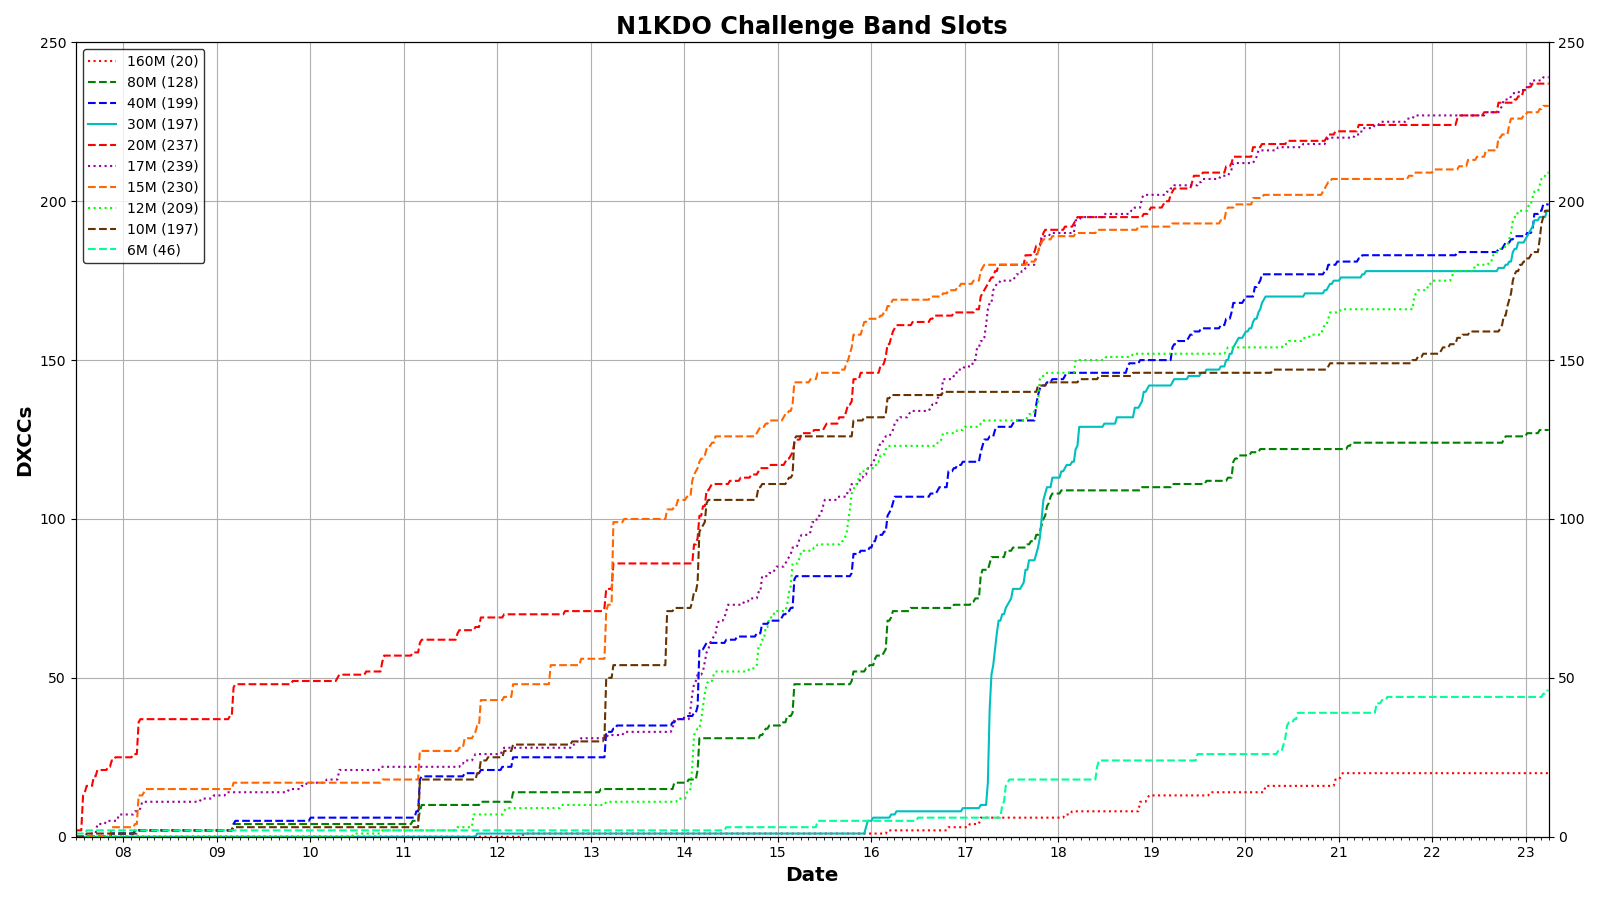
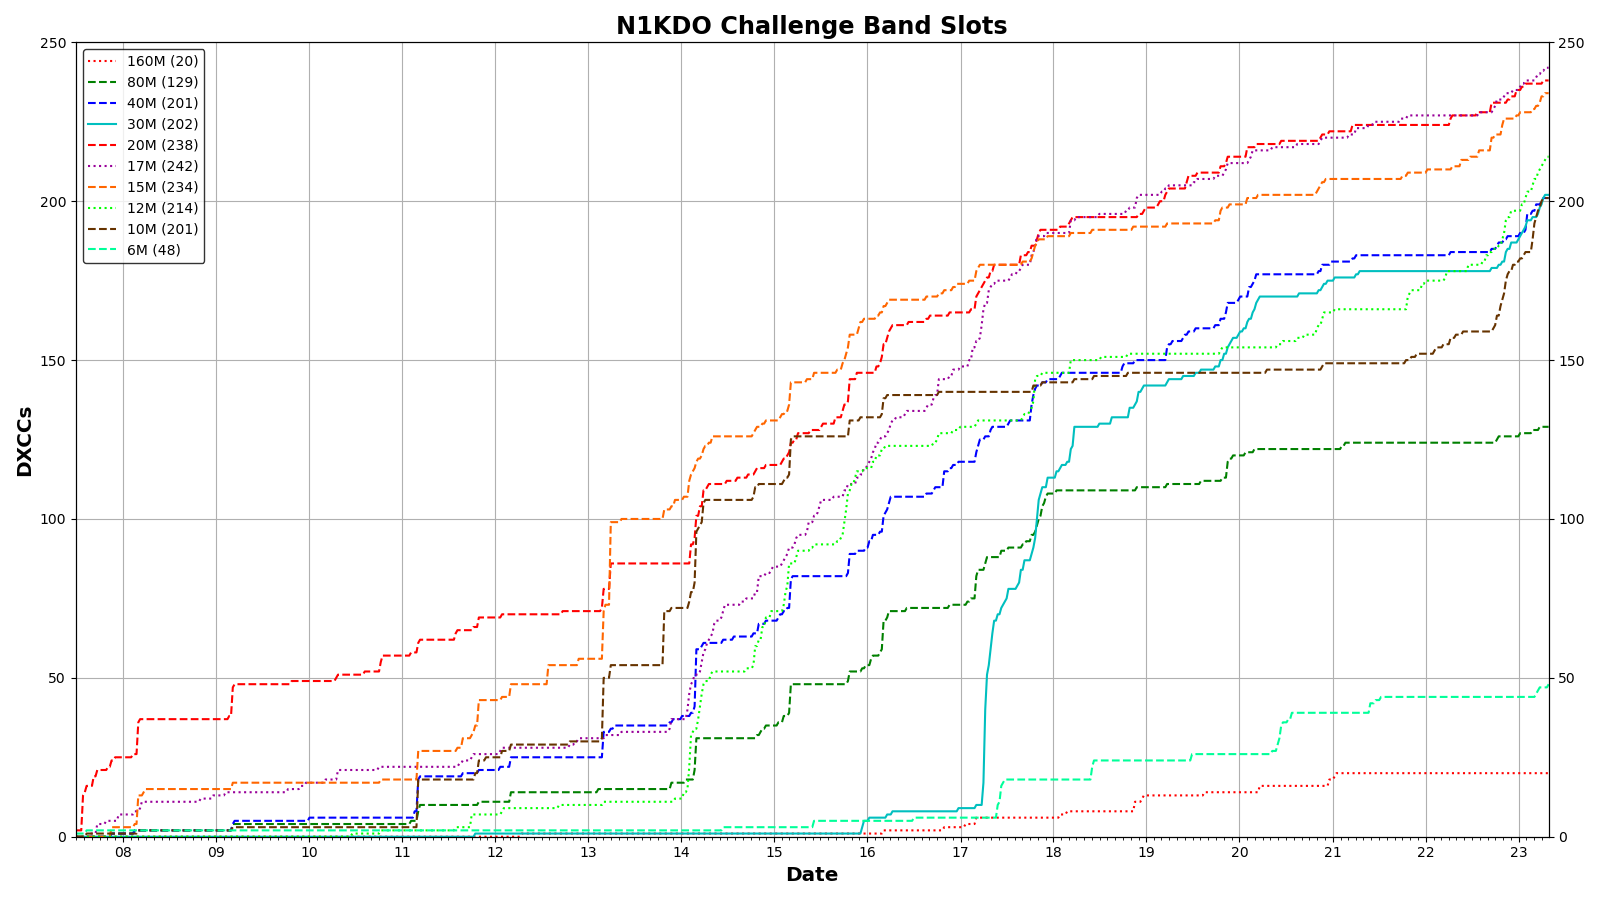
fix up charts a bit

diff --git a/qso_charts.py b/qso_charts.py
@@ -205,22 +205,26 @@ def plot_dxcc_qsos(bin_data, title, filename=None, start_date=None, end_date=Non
 
     yticks = [0, 50, 100, 150, 200, 250, 300, 350]
     ax.set_yticks(yticks)
-    minor_ticks = [340, total_dxcc_data[-1]]
-    ax.set_yticks(minor_ticks, minor=True)  # current number of dxcc entities
-    ax.yaxis.set_minor_formatter(FormatStrFormatter('%d'))
+    if False:
+        minor_ticks = [340, total_dxcc_data[-1]]
+        ax.set_yticks(minor_ticks, minor=True)  # current number of dxcc entities
+        ax.tick_params(axis='y', which='minor', direction='in', right=False, labelcolor='r', pad=-24)
+        ax.yaxis.set_minor_formatter(FormatStrFormatter('%d'))
 
-    ax.tick_params(axis='y', colors=FG, which='both', direction='out', right=False, labelcolor='r')
+    ax.tick_params(axis='y', colors=FG, which='major', direction='out', right=False, labelcolor='r')
     ax.tick_params(axis='x', colors=FG, which='both', direction='out', top=False)
     ax.set_ylabel('DXCCs', color='r', size='x-large', weight='bold')
     axb.set_ylabel('Challenge', color='g', size='x-large', weight='bold')
     challenge_ticks = [500, 1000, 1500, 2000, 2500, 3000, 3500]
+    axb.tick_params(axis='y', colors=FG, which='major', direction='out', left=False, labelcolor='g')
     axb.set_yticks(challenge_ticks)
-    current_challenge_label_distance = total_challenge_data[-1] % 500
-    #print(current_challenge_label_distance)
-    if current_challenge_label_distance > 20 and current_challenge_label_distance < 480:
-        axb.set_yticks([total_challenge_data[-1]], minor=True)
-        axb.yaxis.set_minor_formatter(FormatStrFormatter('%d'))
-    axb.tick_params(axis='y', colors=FG, which='both', direction='out', left=False, labelcolor='g')
+    if False:
+        current_challenge_label_distance = total_challenge_data[-1] % 500
+        #print(current_challenge_label_distance)
+        if current_challenge_label_distance > 20 and current_challenge_label_distance < 480:
+            axb.set_yticks([total_challenge_data[-1]], minor=True)
+            axb.yaxis.set_minor_formatter(FormatStrFormatter('%d'))
+    axb.tick_params(axis='y', colors=FG, which='minor', direction='out', left=False, labelcolor='g', pad=-72)
 
     if bin_data.num_days <= 28:
         ax.xaxis.set_major_locator(DayLocator())
@@ -236,7 +240,8 @@ def plot_dxcc_qsos(bin_data, title, filename=None, start_date=None, end_date=Non
     lns = lns1 + lns2
     labs = [l.get_label() for l in lns]
 
-    legend = ax.legend(lns, labs, loc='upper left', numpoints=1, facecolor=BG, edgecolor=FG)
+    # legend = ax.legend(lns, labs, loc='upper left', numpoints=1, facecolor=BG, edgecolor=FG)
+    legend = ax.legend(lns, labs, loc='lower right', numpoints=1, facecolor=BG, edgecolor=FG)
     for text in legend.get_texts():
         text.set_color(FG)
 

diff --git a/get_lotw_adif.py b/get_lotw_adif.py
@@ -133,7 +133,7 @@ def main():
                 print('Cannot update, no base, download first.')
             else:
                 password = get_password(password)
-                logging.info('fetching new QSOs')
+                logging.info(f'fetching new QSOs since {last_qso_date}')
                 new_lotw_qsos_header = None
                 try:
                     new_lotw_qsos_header, new_lotw_qsos = adif.get_lotw_adif(login_callsign,
@@ -145,10 +145,10 @@ def main():
                     logging.info(
                         'New last QSO Received {}, {} QSO records'.format(new_last_qso_date, len(new_lotw_qsos)))
                     lotw_header, lotw_qsos = adif.merge(lotw_header, lotw_qsos, new_lotw_qsos_header, new_lotw_qsos)
-                    logging.info('fetching new QSLs')
                     if new_lotw_qsos_header.get('app_lotw_lastqsorx') is not None:
                         lotw_header['app_lotw_lastqsorx'] = new_lotw_qsos_header.get('app_lotw_lastqsorx')
 
+                    logging.info(f'fetching new QSLs since {last_qsl_date}')
                     new_lotw_qsls_header, new_lotw_qsls = adif.call_lotw(login=login_callsign,
                                                                          password=password,
                                                                          filename=lotw_adif_new_qsls_file_name,

diff --git a/adif.py b/adif.py
@@ -1,5 +1,6 @@
 import logging
 import re
+import time
 import urllib.error
 import urllib.parse
 import urllib.request
@@ -486,8 +487,10 @@ def call_lotw(**params):
 
     data = urllib.parse.urlencode(params)
     req = urllib.request.Request(url + '?' + data)
+    t0 = time.time()
     try:
         response = urllib.request.urlopen(req)
+        t1 = time.time()
     except urllib.error.HTTPError as q:
         print('problem with request ' + req.full_url)
         print(q.reason)
@@ -526,11 +529,10 @@ def call_lotw(**params):
                     qso = {}
         else:
             qso[item_name] = item_value
-        print('records loaded: {}'.format(len(qsos)), end='\r')
-    print()
     if adif_file is not None:
         adif_file.close()
-    logging.debug('Retrieved %d records from LoTW.' % len(qsos))
+    t2 = time.time()
+    logging.info(f'Fetched {len(qsos)} records in {t1-t0:.3f} sec, parsing took {t2-t1:.3f} sec.')
     return header, sorted(qsos, key=lambda qso: qso_key(qso))
 
 
